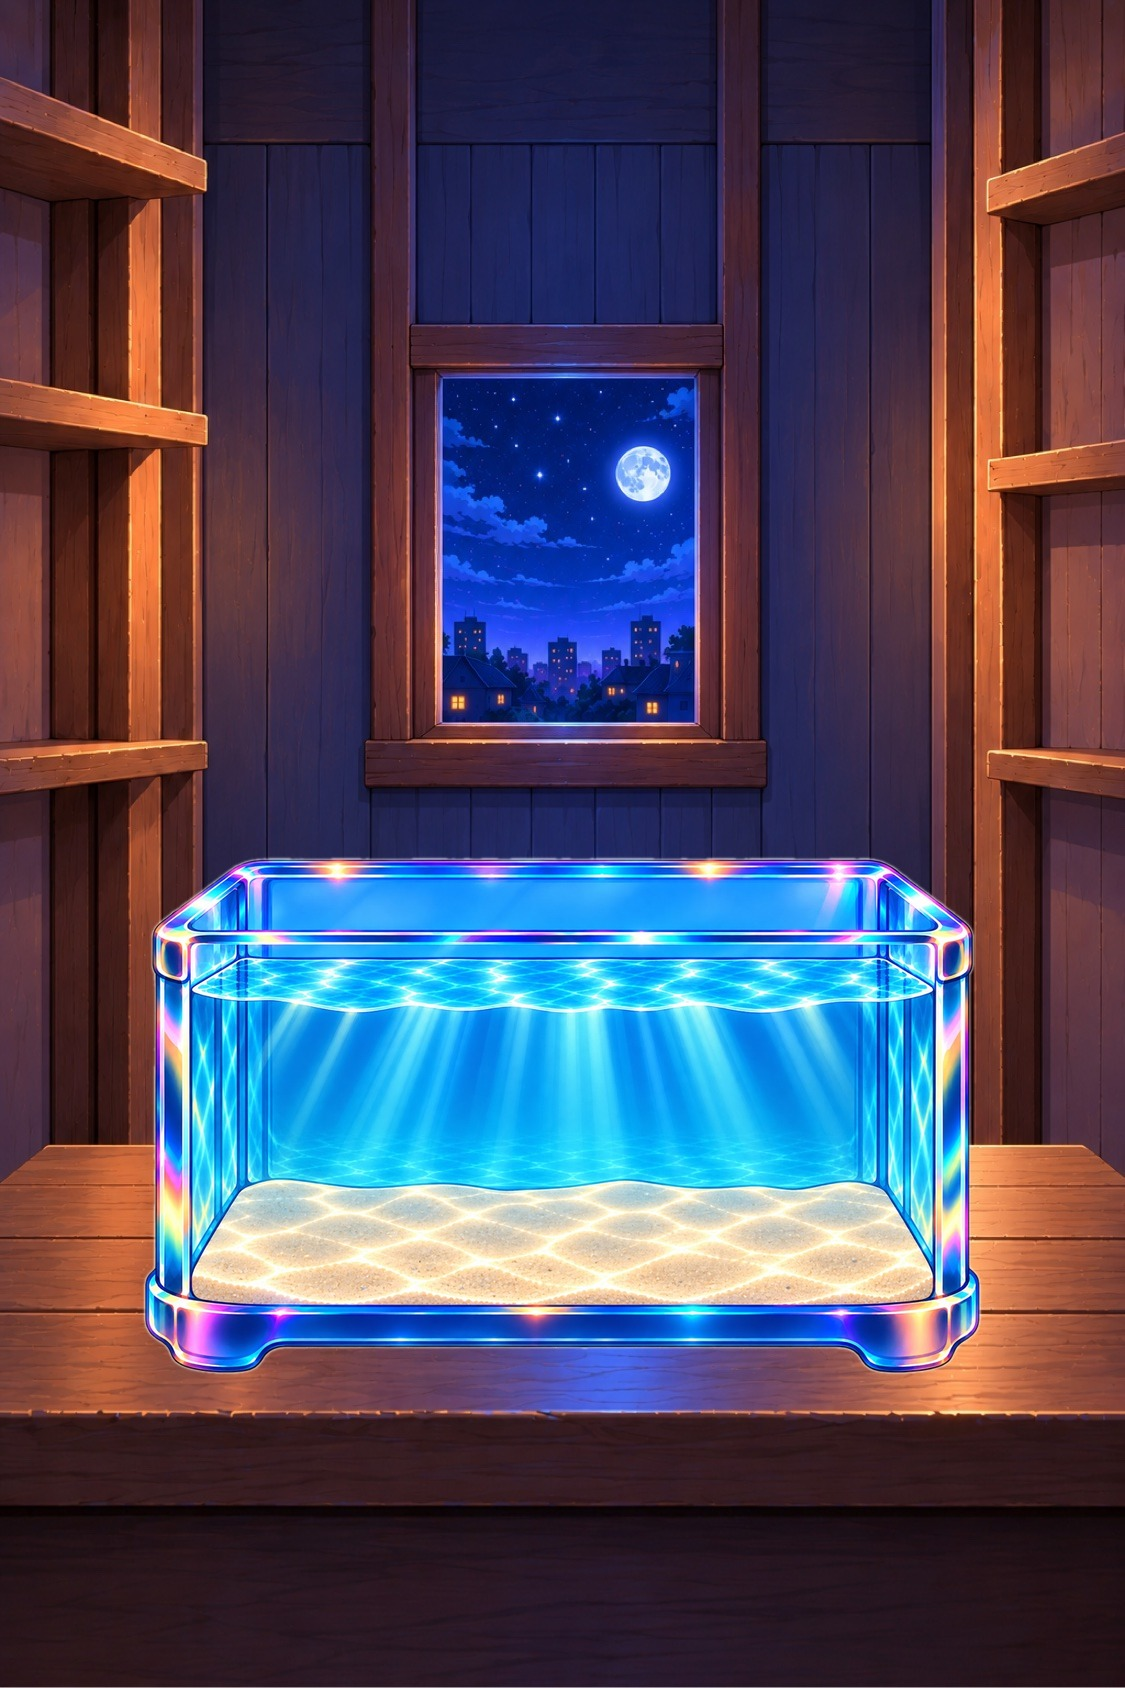
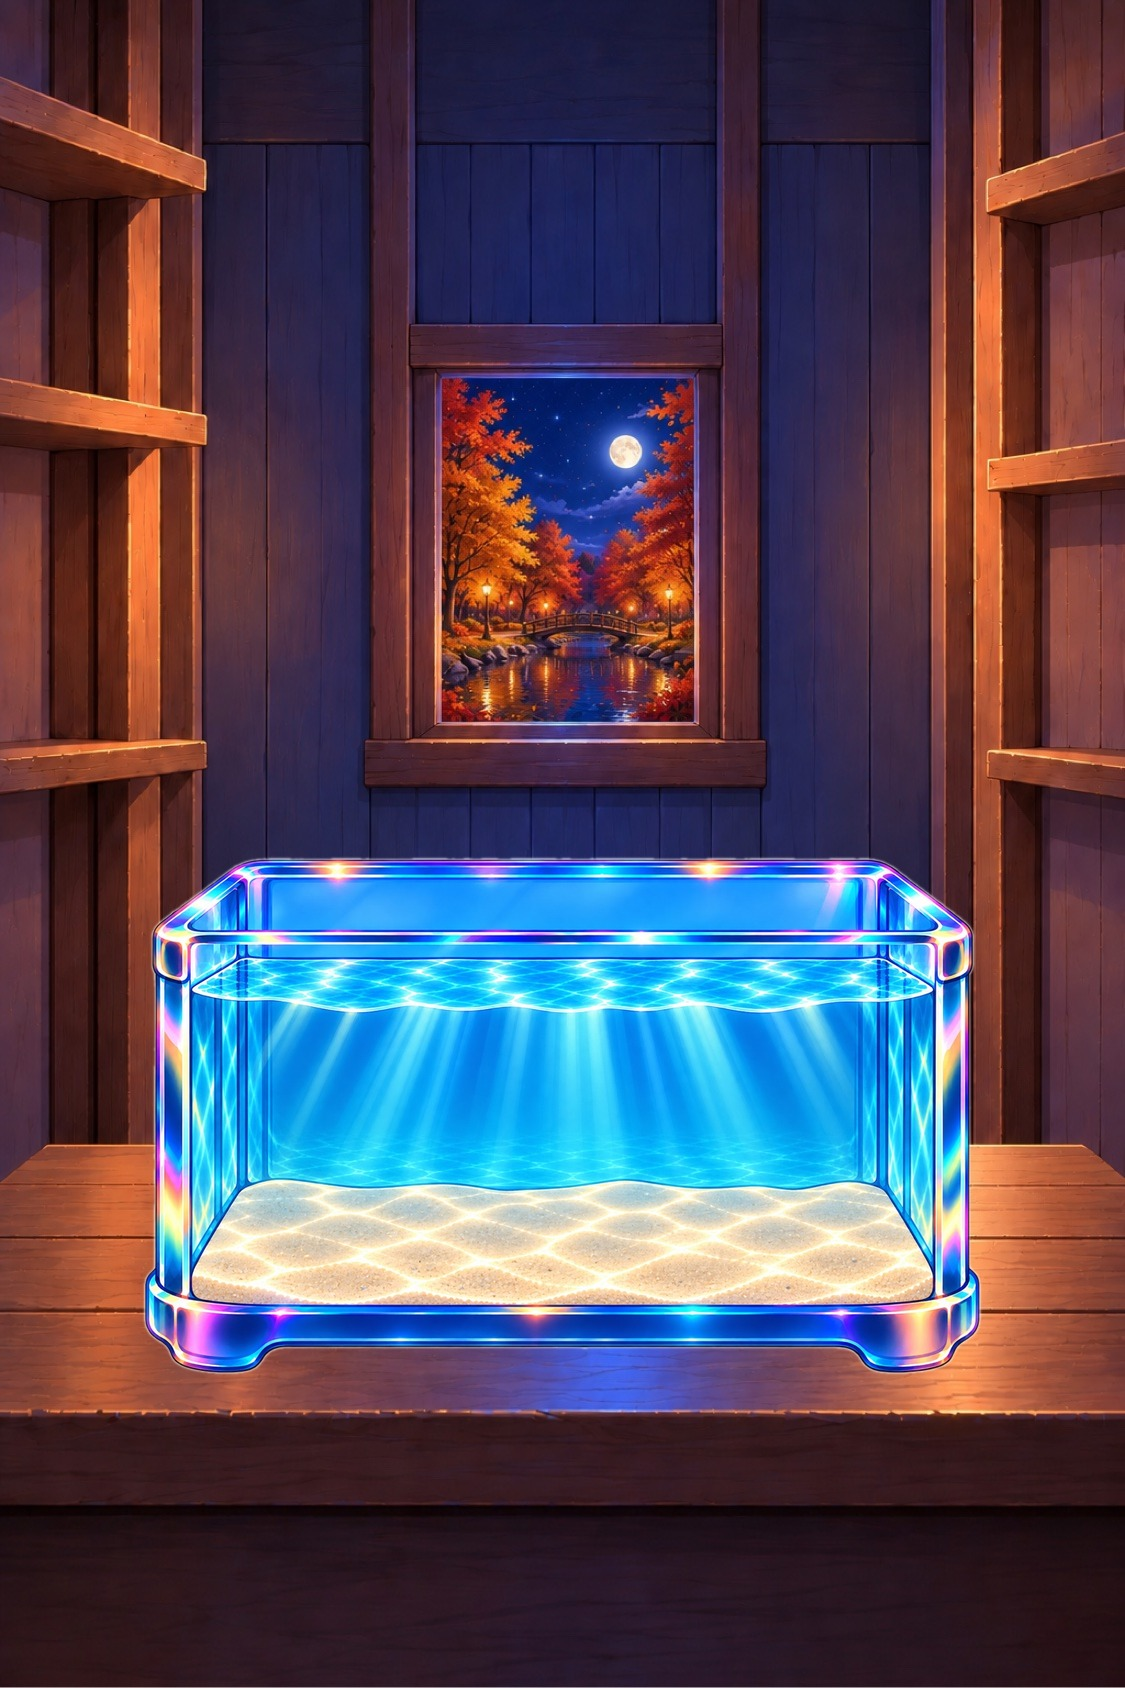
New small tank background: autumn night room

Changed region(s): [[0.3733, 0.2156, 0.6533, 0.4621], [0.8089, 0.1232, 0.8711, 0.4005], [0.8711, 0.0924, 0.9333, 0.1232]]

diff --git a/public/js/data.js b/public/js/data.js
@@ -2,7 +2,7 @@
 "use strict";
 
 // Bump TANK_V whenever shipped tank art changes so phones don't keep stale cached JPGs.
-const TANK_V = 3;
+const TANK_V = 4;
 
 const DATA = {
   TANKS: {
